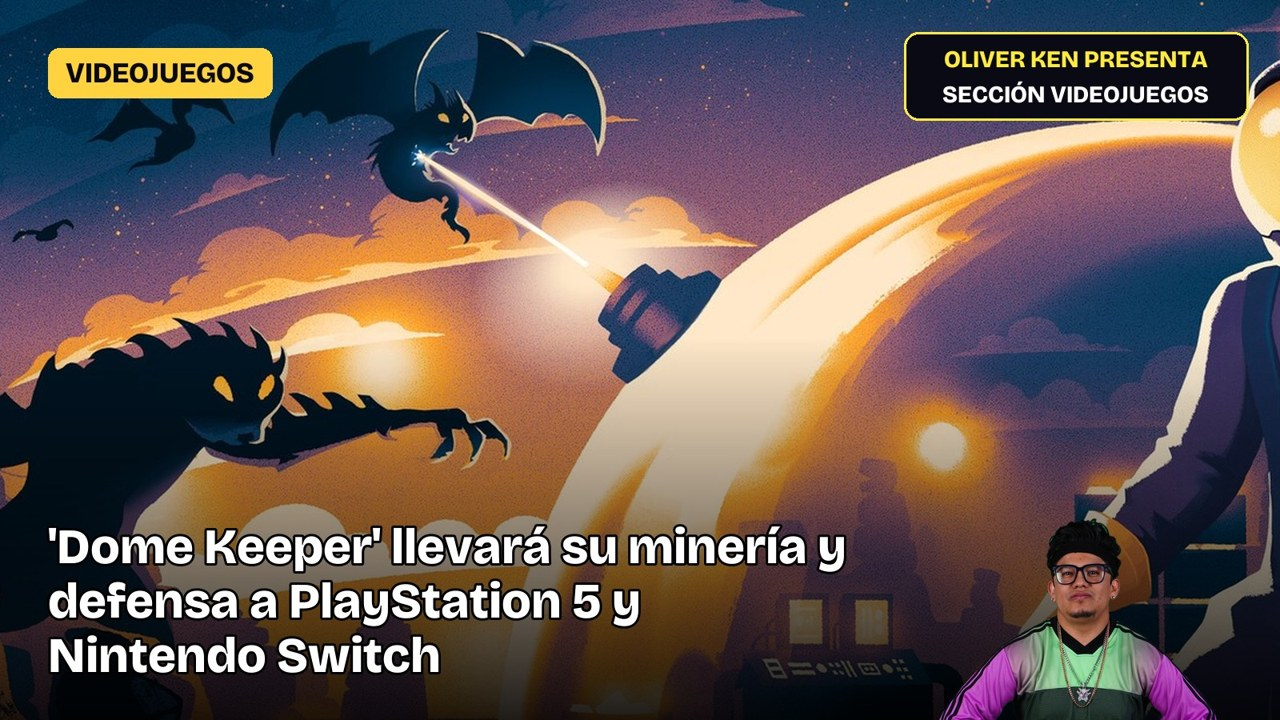
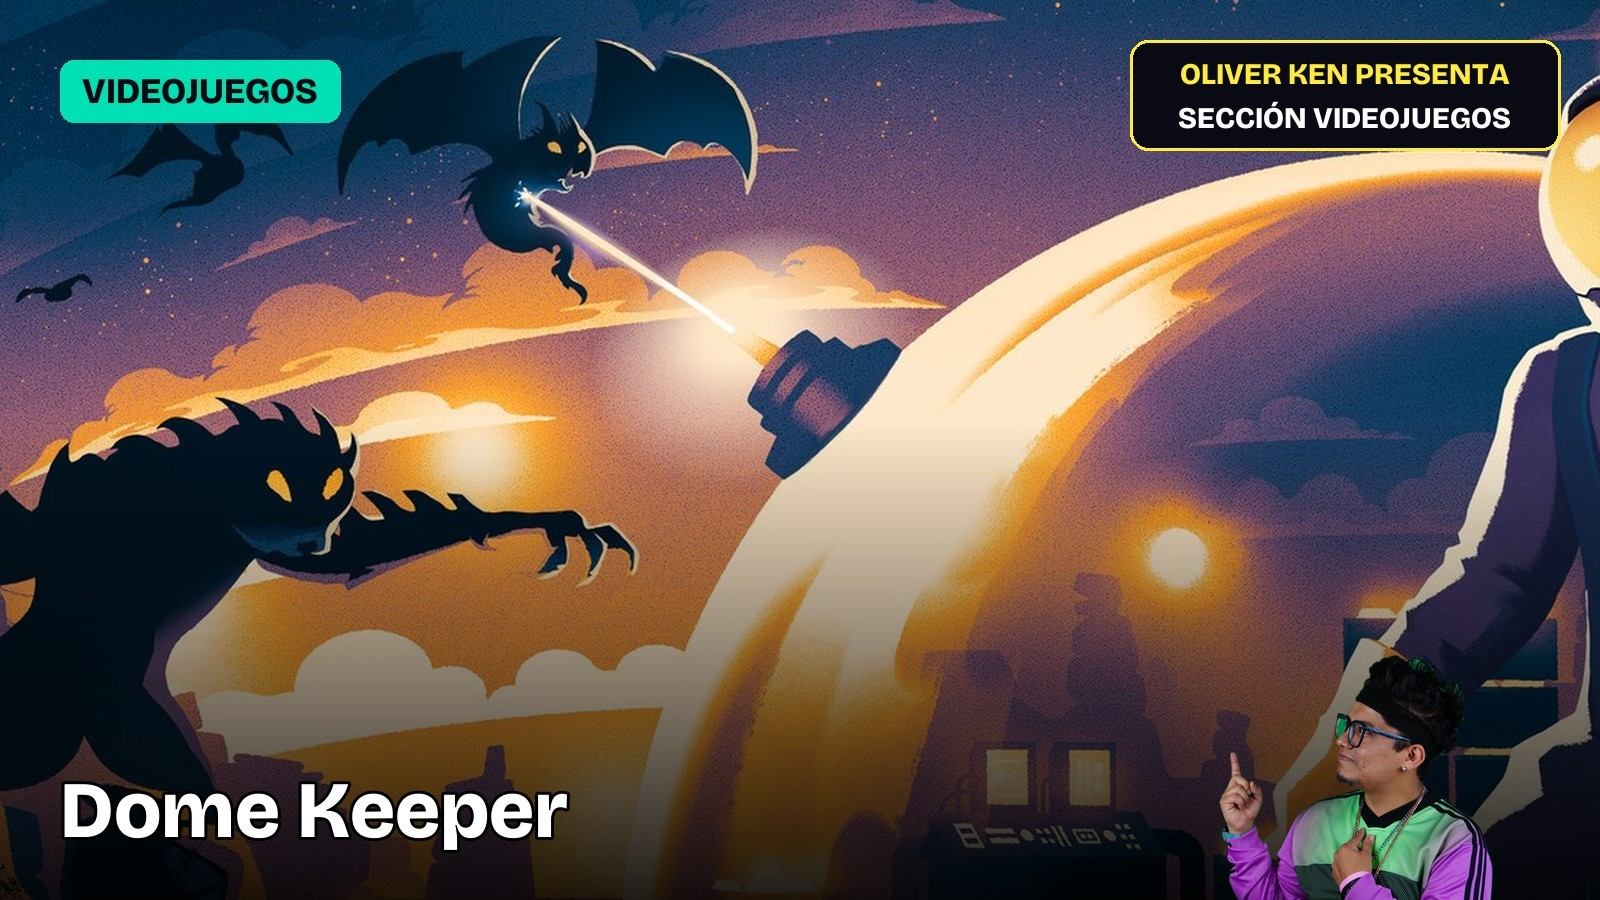
[bot] Portada — 2026-11-13 16:07

Changed region(s): [[0.0312, 0.7333, 0.6875, 0.9472], [0.7188, 0.7028, 0.9688, 1.0], [0.0312, 0.0611, 0.2188, 0.1528]]

diff --git a/notas/dome-keeper-llega-a-ps5-y-switch-el-14-de-diciembre-1113.html b/notas/dome-keeper-llega-a-ps5-y-switch-el-14-de-diciembre-1113.html
@@ -10,8 +10,8 @@
 <meta name="twitter:description" content="Raw Fury y el estudio alemán Bippinbits anunciaron el 12 de noviembre de 2026 la portada de &#x27;Dome Keeper&#x27; a PlayStation 5 y Nintendo Switch…"><meta name="twitter:image" content="https://enelensayomedia.com/img/notas/dome-keeper-llega-a-ps5-y-switch-el-14-de-diciembre-1113.jpg">
 <link href="https://fonts.googleapis.com/css2?family=Manrope:wght@400;600;800&family=Space+Mono:wght@400;700&display=swap" rel="stylesheet">
 <link rel="alternate" type="application/rss+xml" title="En El Ensayo Media" href="https://enelensayomedia.com/feed.xml">
-<script type="application/ld+json">{"@context": "https://schema.org", "@type": "NewsArticle", "headline": "'Dome Keeper' llega a PS5 y Switch el 14 de diciembre", "description": "Raw Fury y el estudio alemán Bippinbits anunciaron el 12 de noviembre de 2026 la portada de 'Dome Keeper' a PlayStation 5 y Nintendo Switch…", "datePublished": "2026-11-13T16:07:24", "author": {"@type": "Organization", "name": "En El Ensayo Media"}, "publisher": {"@type": "Organization", "name": "En El Ensayo Media", "url": "https://enelensayomedia.com"}, "image": ["https://enelensayomedia.com/img/notas/dome-keeper-llega-a-ps5-y-switch-el-14-de-diciembre-1113.jpg"]}</script>
-<script type="application/ld+json">{"@context": "https://schema.org", "@type": "BreadcrumbList", "itemListElement": [{"@type": "ListItem", "position": 1, "name": "En El Ensayo Media", "item": "https://enelensayomedia.com/"}, {"@type": "ListItem", "position": 2, "name": "Reportaje", "item": "https://enelensayomedia.com/noticias.html"}, {"@type": "ListItem", "position": 3, "name": "'Dome Keeper' llega a PS5 y Switch el 14 de diciembre", "item": "https://enelensayomedia.com/notas/dome-keeper-llega-a-ps5-y-switch-el-14-de-diciembre-1113.html"}]}</script>
+<script type="application/ld+json">{"@context": "https://schema.org", "@type": "NewsArticle", "headline": "'Dome Keeper' llega a PS5 y Switch el 14 de diciembre", "description": "Raw Fury y el estudio alemán Bippinbits anunciaron el 12 de noviembre de 2026 la portada de 'Dome Keeper' a PlayStation 5 y Nintendo Switch…", "datePublished": "2026-11-13T16:07:24", "author": {"@type": "Person", "name": "Oliver Ken"}, "publisher": {"@type": "Organization", "name": "En El Ensayo Media", "url": "https://enelensayomedia.com"}, "image": ["https://enelensayomedia.com/img/notas/dome-keeper-llega-a-ps5-y-switch-el-14-de-diciembre-1113.jpg"]}</script>
+<script type="application/ld+json">{"@context": "https://schema.org", "@type": "BreadcrumbList", "itemListElement": [{"@type": "ListItem", "position": 1, "name": "En El Ensayo Media", "item": "https://enelensayomedia.com/"}, {"@type": "ListItem", "position": 2, "name": "Videojuegos", "item": "https://enelensayomedia.com/videojuegos.html"}, {"@type": "ListItem", "position": 3, "name": "'Dome Keeper' llega a PS5 y Switch el 14 de diciembre", "item": "https://enelensayomedia.com/notas/dome-keeper-llega-a-ps5-y-switch-el-14-de-diciembre-1113.html"}]}</script>
 <style>
 :root{--tinta:#0b0812;--y:#FFEB3B;--i:#673AB7;--linea:#e4e1ea;--mono:'Space Mono',ui-monospace,monospace}
 *{box-sizing:border-box}body{margin:0;background:#fff;color:var(--tinta);font-family:Manrope,system-ui,sans-serif;line-height:1.7}
@@ -64,8 +64,8 @@ article blockquote{font-size:1.3rem;padding-left:16px}.cta{padding:16px}.video.v
 </style><meta name="google-adsense-account" content="ca-pub-5230441592261869"><script async src="https://pagead2.googlesyndication.com/pagead/js/adsbygoogle.js?client=ca-pub-5230441592261869" crossorigin="anonymous"></script><link rel="preconnect" href="https://fonts.gstatic.com" crossorigin><link href="https://fonts.googleapis.com/css2?family=Bricolage+Grotesque:opsz,wght@12..96,500;12..96,700;12..96,800&display=swap" rel="stylesheet"><link rel="manifest" href="/manifest.webmanifest"><meta name="theme-color" content="#0B0812"><link rel="apple-touch-icon" href="/img/icon-192.png"><link rel="stylesheet" href="/css/moderno.css?v=20261101d"></head><body>
 <header class="top"><div class="w"><a class="logo" href="https://enelensayomedia.com">EN EL ENSAYO MEDIA</a><nav><a href="https://enelensayomedia.com/#notas">Notas</a> <a href="https://enelensayomedia.com/#chisme">Chisme</a> <a href="https://enelensayomedia.com/#misterio">Misterio</a> <a href="https://enelensayomedia.com/#deporte">Deporte</a> <a href="https://enelensayomedia.com/#conciertos">Conciertos</a> <a href="https://enelensayomedia.com/#videos">Videos</a> <a href="https://enelensayomedia.com/podcast.html">Podcast</a> <a href="https://enelensayomedia.com/sesiones.html">Sesiones en vivo</a></nav><a class="tg" href="https://t.me/enelensayomedia" target="_blank" rel="noopener">Únete en Telegram</a></div></header>
 <div data-slot="cabecera" class="w" style="padding:8px 20px 0"></div>
-<div class="cabecera"><div class="w"><a class="kicker" href="https://enelensayomedia.com/noticias.html">Reportaje</a><h1>&#x27;Dome Keeper&#x27; llega a PS5 y Switch el 14 de diciembre</h1>
-<p class="dek">Raw Fury y el estudio alemán Bippinbits anunciaron el 12 de noviembre de 2026 la portada de &#x27;Dome Keeper&#x27; a PlayStation 5 y Nintendo Switch para el 14 de diciembre.</p><div class="firma">Por <b>Redacción En el Ensayo Media</b> · 13 de noviembre de 2026 · 16:07</div></div></div>
+<div class="cabecera"><div class="w"><a class="kicker" href="https://enelensayomedia.com/videojuegos.html">Videojuegos</a><h1>&#x27;Dome Keeper&#x27; llega a PS5 y Switch el 14 de diciembre</h1>
+<p class="dek">Raw Fury y el estudio alemán Bippinbits anunciaron el 12 de noviembre de 2026 la portada de &#x27;Dome Keeper&#x27; a PlayStation 5 y Nintendo Switch para el 14 de diciembre.</p><div class="firma">Por <b>Oliver Ken</b> · 13 de noviembre de 2026 · 16:07</div></div></div>
 <div class="pagina w"><article>
 <div class="share">Compartir: <a id="x" href="#" target="_blank" rel="noopener">X</a><a id="fb" href="#" target="_blank" rel="noopener">Facebook</a><a id="wa" href="#" target="_blank" rel="noopener">WhatsApp</a><a id="cp" href="#" onclick="return false">Copiar enlace</a></div>
 <figure class="hero"><picture><source type="image/webp" srcset="https://enelensayomedia.com/img/notas/dome-keeper-llega-a-ps5-y-switch-el-14-de-diciembre-1113.webp"><img src="https://enelensayomedia.com/img/notas/dome-keeper-llega-a-ps5-y-switch-el-14-de-diciembre-1113.jpg" alt="&#x27;Dome Keeper&#x27; llega a PS5 y Switch el 14 de diciembre" decoding="async"></picture><figcaption>Foto: Dome Keeper</figcaption></figure><p>Raw Fury y el estudio alemán Bippinbits anunciaron el 12 de noviembre de 2026 la portada de &#x27;Dome Keeper&#x27; a PlayStation 5 y Nintendo Switch para el 14 de diciembre. El juego de acción y minería estilo roguelike, que salió originalmente en PC en 2022, incluye dos nuevos trailers dedicados a las versiones de consola. La fecha exacta del lanzamiento fue confirmada en el comunicado, aunque aún no se han revelado precios ni disponibilidad en tiendas.</p><figure class='embed-social' style='margin:1.6rem auto;max-width:640px'><picture><source type="image/webp" srcset="/img/prensa/prensa_a72213f70381.webp"><img src='/img/prensa/prensa_a72213f70381.jpg' style='width:100%;border-radius:14px' alt="Imagen de prensa sobre: &#x27;Dome Keeper&#x27; llega a PS5 y Switch el 14 de diciembre — En El Ensayo Media (crédito: infobae.com)" decoding="async"></picture><figcaption style='font-size:.82rem;opacity:.75;text-align:center;margin-top:.5rem'>Imagen: infobae.com</figcaption></figure><h2>Resumen rápido</h2><p>Raw Fury y Bippinbits anunciaron la portada de &#x27;Dome Keeper&#x27; a PlayStation 5 y Nintendo Switch para el 14 de diciembre de 2026. El anuncio incluye un nuevo tráiler dedicado a las ediciones de consola. El juego, que salió originalmente en PC (Steam) el 27 de septiembre de 2022, incluye modificadores, ajuste de dificultad, opciones de accesibilidad, un modo Endless y progresión persistente. Aún no se han confirmado precios, disponibilidad en tiendas, reservas ni compatibilidad de cross-save.</p><h2>Por qué importa</h2><p>&#x27;Dome Keeper&#x27; es un juego de acción, minería y defensa estilo roguelike desarrollado por Bippinbits y publicado por Raw Fury. Su llegada a consolas amplía su alcance más allá del PC, donde llegó en 2022 tras un periodo de acceso anticipado. El título ha recibido críticas positivas por su combate dinámico y generación procedural de mapas. La versión para Xbox Series y PC (Microsoft Store) se lanzará el 9 de diciembre de 2025, mientras que la versión móvil para iOS y Android está prevista para el 12 de octubre de 2026. La expansión a consolas refuerza la estrategia del estudio por consolidar su base de jugadores.</p>
